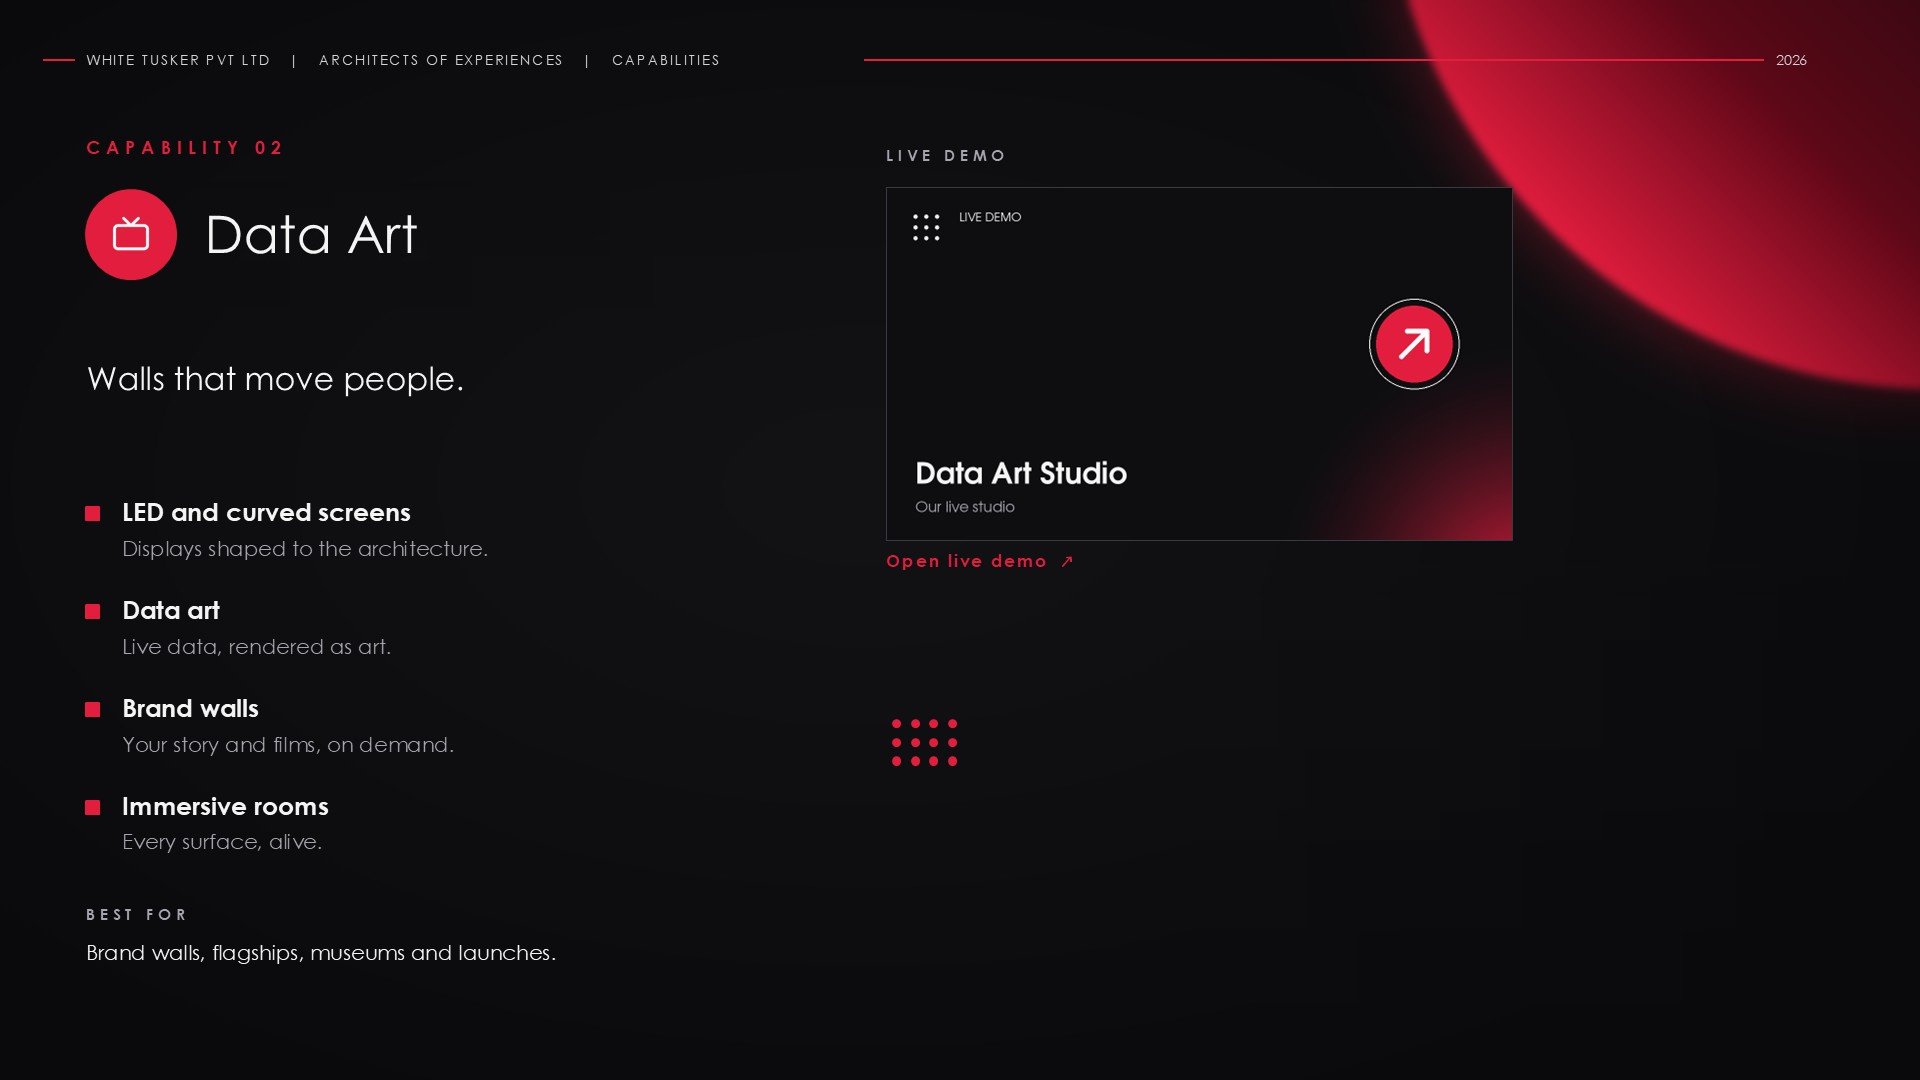
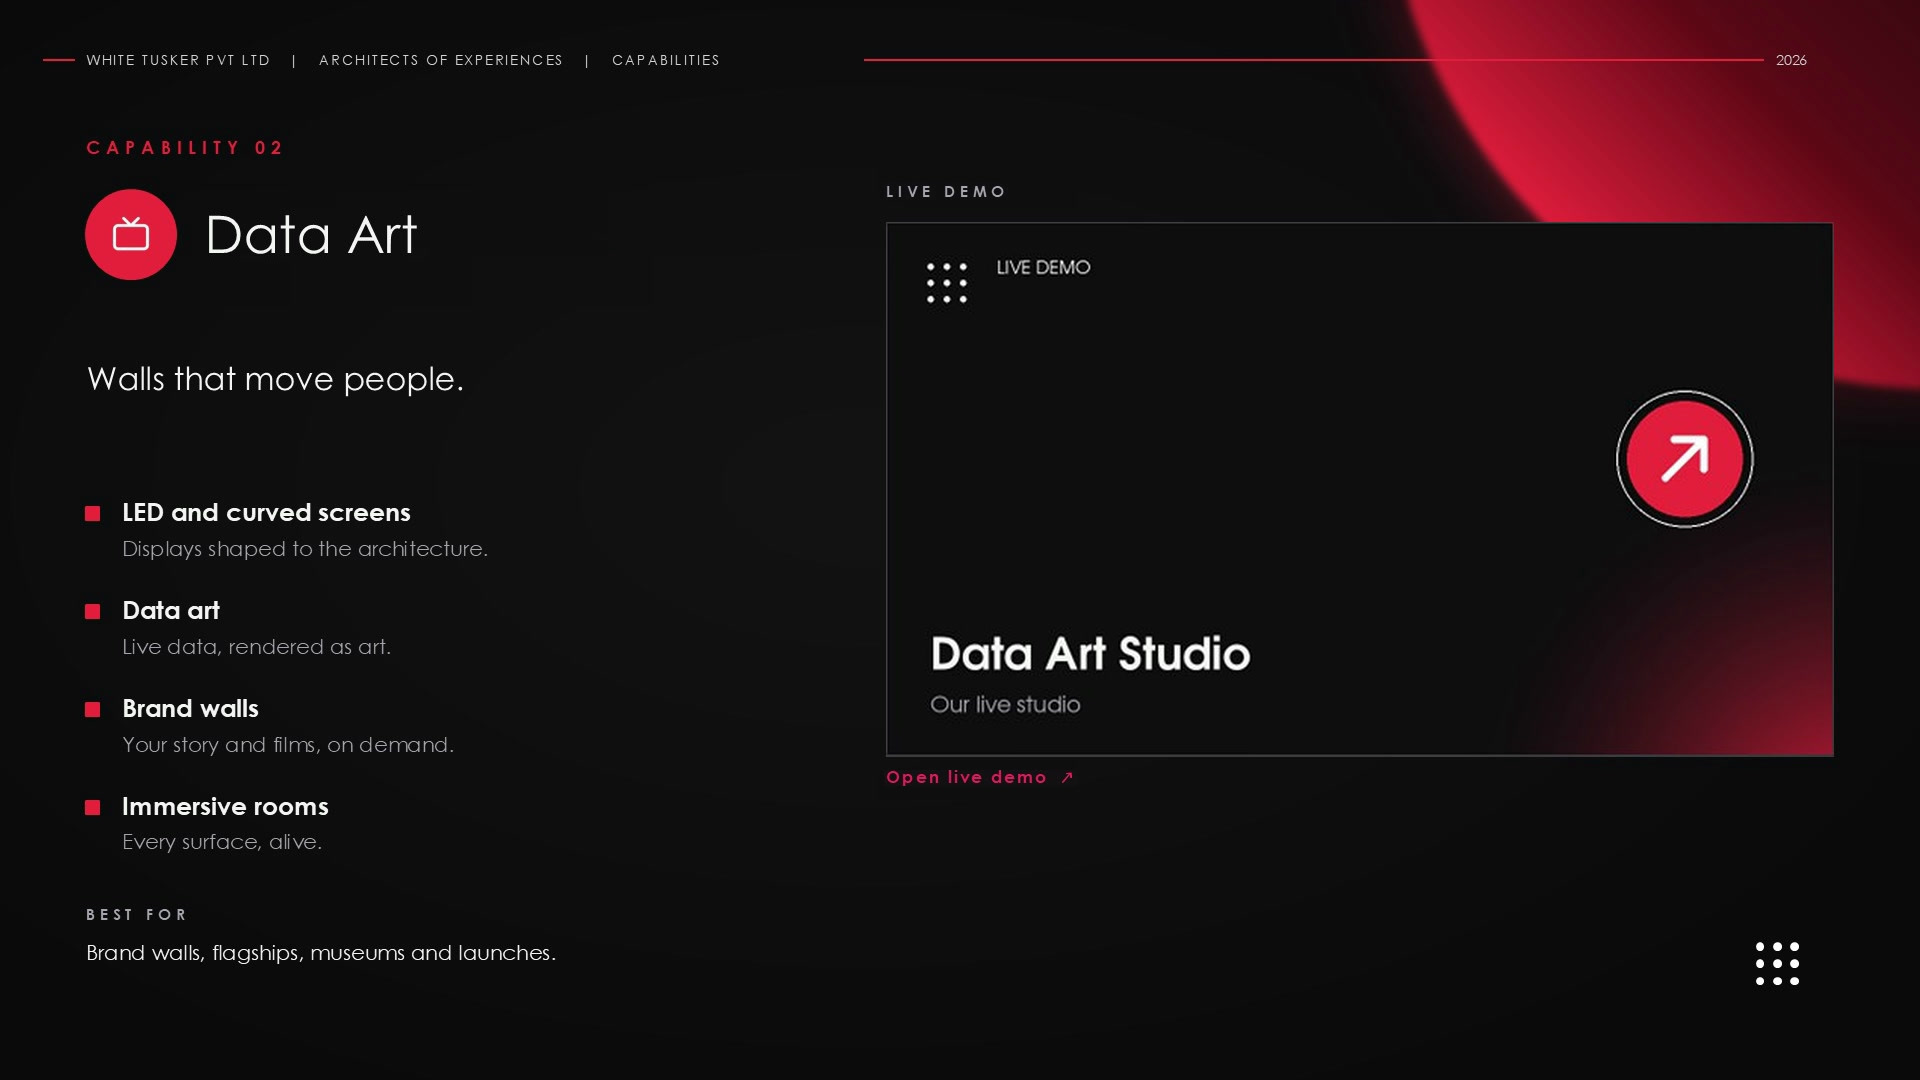
feat: use single-card layout on capabilities slide 4
Slide 4 had one card left in the two-card layout after the teamLab video
was removed. It now uses the large card layout of slides 5, 7, 8 and 10,
and the live-demo click areas are moved to match.

diff --git a/app/capabilities/page.tsx b/app/capabilities/page.tsx
@@ -24,8 +24,8 @@ const videos: Boxes = {
 const links: Boxes = {
   3: [["https://www.youtube.com/watch?v=_WcRgc-3eAw", 46.125, 50.758, 13.5, 3.467], ["https://www.youtube.com/watch?v=3J0qc44Ak4o", 62.85, 90.092, 13.5, 3.467]],
   4: [
-    ["https://data-art-studio.vercel.app/", 46.125, 17.333, 32.625, 32.625],
-    ["https://data-art-studio.vercel.app/", 46.125, 50.758, 13.5, 3.467],
+    ["https://data-art-studio.vercel.app/", 46.125, 20.667, 49.35, 49.35],
+    ["https://data-art-studio.vercel.app/", 46.125, 70.817, 13.5, 3.467],
   ],
   6: [
     ["/capabilities/lidar-wall.mp4", 4.5, 88.917, 13.5, 3.467],
